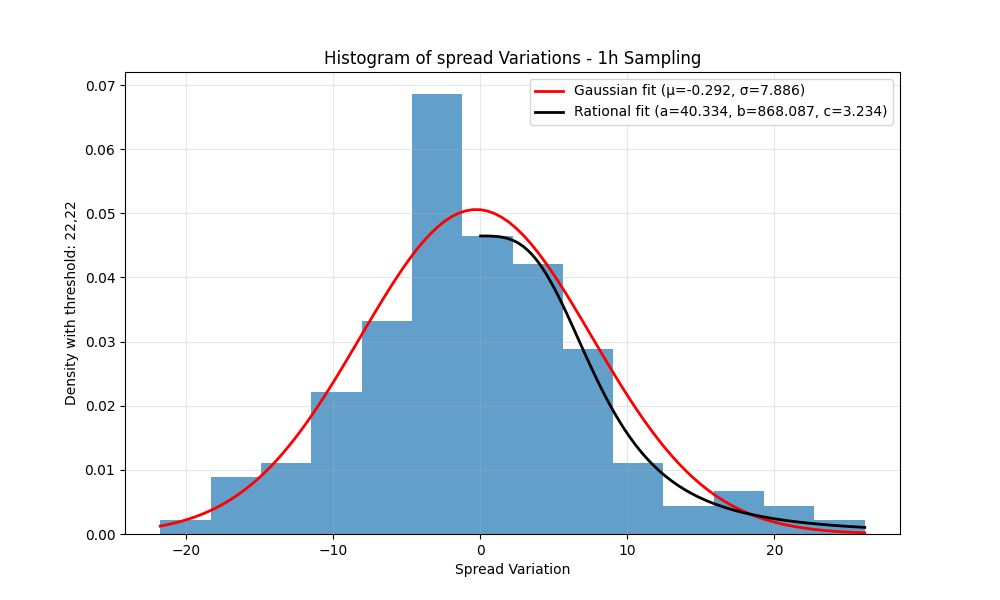
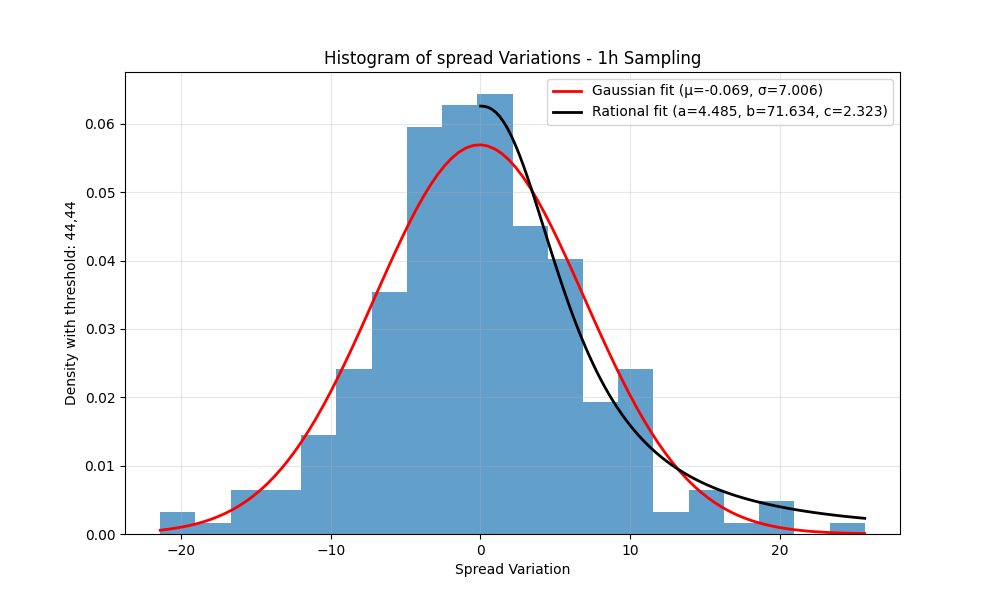
passer en average event time après

diff --git a/data/curating/gaussiantestwithoutviz copy.py b/data/curating/gaussiantestwithoutviz copy.py
@@ -35,12 +35,28 @@ LIST_STOCKS_SIZE = {"WBD": "327M", "PSNY": "312M", "NTAP": "228M", "GEO": "199M"
     "LCID": "163M", "GCMG": "160M", "CXW": "108M", "RIOT": "36M", "HL": "18M",
     "CX": "4.8M", "ERIC": "4.2M", "UA": "2.7M"
 }
+
+LIST_STOCKS_SIZE = {"NTAP": "228M", "GEO": "199M",
+    "LCID": "163M", "GCMG": "160M", "CXW": "108M", "RIOT": "36M", "HL": "18M",
+    "CX": "4.8M", "ERIC": "4.2M", "UA": "2.7M"
+}
+
+
+
+LIST_STOCKS_SIZE = {
+    "GOOGL": "5.6G", "AAPL": "3.1G", "AMZN": "3.1G", "AAL": "2.2G", "MSFT": "2.1G",
+    "GT": "2.1G", "INTC": "1.5G", "IOVA": "1.5G", "PTEN": "1.5G", "MLCO": "1.4G",
+    "PTON": "1.4G", "VLY": "1.1G", "VOD": "951M", "CSX": "619M", "WB": "591M",
+    "BGC": "591M", "GRAB": "454M", "KHC": "428M", "HLMN": "390M"
+}
+
+
 # -
-for stock in tqdm(list(LIST_STOCKS_SIZE.keys())):
+for stock in tqdm(list(LIST_STOCKS_SIZE.keys())[::-1]):
     parquet_files = [f for f in os.listdir(f"{FOLDER_PATH}{stock}") if f.endswith('.parquet')]
     parquet_files.sort()
     print(len(parquet_files),"\n",parquet_files)
-    threshold = len(parquet_files)//2
+    threshold = len(parquet_files)//3
     parquet_files = parquet_files[:threshold]
     # Read and concatenate all parquet files
     df = pl.concat([
@@ -166,7 +182,10 @@ for stock in tqdm(list(LIST_STOCKS_SIZE.keys())):
         bin_centers = (bins[:-1] + bins[1:]) / 2
         mask = (bin_centers > 0) & (counts > 0)
         if np.any(mask):
-            popt, _ = curve_fit(rational_func, bin_centers[mask], counts[mask], p0=[1, 1, 2])
+            try:
+                popt, _ = curve_fit(rational_func, bin_centers[mask], counts[mask], p0=[1, 1, 2])
+            except:
+                popt = [np.nan, np.nan, np.nan]
             x_rational = np.linspace(max(min(data_clean), 0.01), max(data_clean), 100)
             y_rational = rational_func(x_rational, *popt)
             plt.plot(x_rational, y_rational, 'k-', lw=2, label=f'Rational fit (a={popt[0]:.3f}, b={popt[1]:.3f}, c={popt[2]:.3f})')
